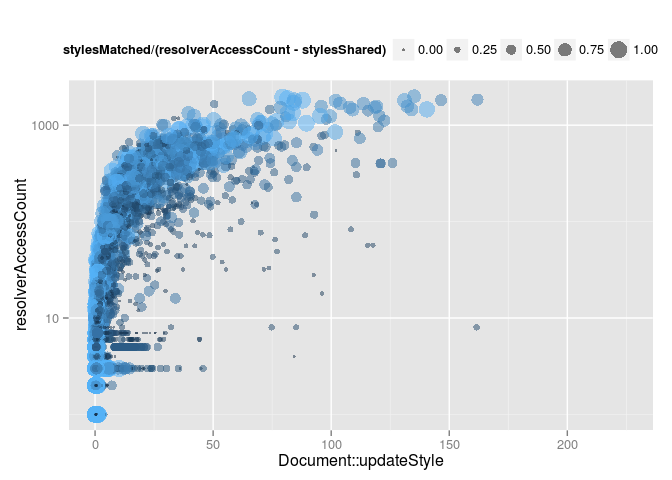
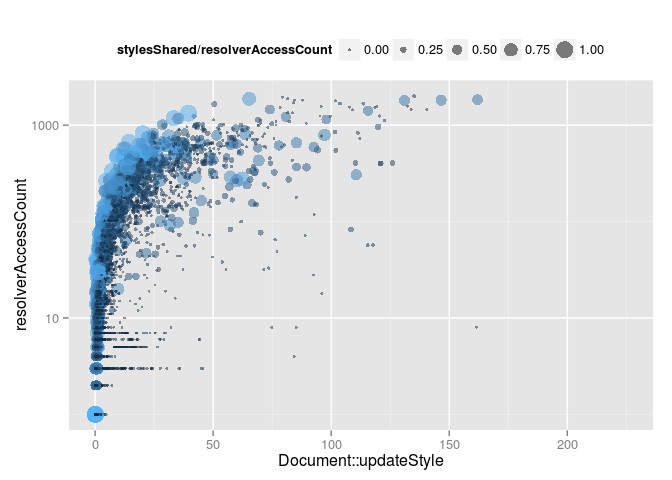
More update style stats

diff --git a/style.md b/style.md
@@ -3,16 +3,44 @@ Based on 24846 `Document::updateStyle` observations.
 Callers of Document::updateStyle
 --------------------------------
 
-There were 332 unique trace stacks. 46% of stacks and 43% of thread time involves `V8.Execute`.
+There were 332 unique trace stacks. 46.08% of stacks and 42.75% of thread time involves `V8.Execute`.
 
 ![](style_files/figure-markdown_github/unnamed-chunk-3-1.png)
 
 Style Sharing
 -------------
 
-![](style_files/figure-markdown_github/unnamed-chunk-4-1.png) ![](style_files/figure-markdown_github/unnamed-chunk-4-2.png) ![](style_files/figure-markdown_github/unnamed-chunk-4-3.png)
+Style sharing rate: 18.37%
+
+![](style_files/figure-markdown_github/unnamed-chunk-5-1.png) ![](style_files/figure-markdown_github/unnamed-chunk-5-2.png) ![](style_files/figure-markdown_github/unnamed-chunk-5-3.png)
 
 Matched properties cache
 ------------------------
 
-![](style_files/figure-markdown_github/unnamed-chunk-5-1.png) ![](style_files/figure-markdown_github/unnamed-chunk-5-2.png) ![](style_files/figure-markdown_github/unnamed-chunk-5-3.png)
+Non-inherited hit rate: 63.5%
+
+Inherited hit rate: 37.64%
+
+![](style_files/figure-markdown_github/unnamed-chunk-6-1.png) ![](style_files/figure-markdown_github/unnamed-chunk-6-2.png) ![](style_files/figure-markdown_github/unnamed-chunk-6-3.png)
+
+Rules matched / rejected
+------------------------
+
+Of the rules considered:
+
+-   6.9% matched
+-   69.13% were rejected by the bloom filter
+-   23.97% were rejected by evaluation
+
+![](style_files/figure-markdown_github/unnamed-chunk-8-1.png) ![](style_files/figure-markdown_github/unnamed-chunk-8-2.png) ![](style_files/figure-markdown_github/unnamed-chunk-8-3.png)
+
+Styles un/changed
+-----------------
+
+Warning: This section isn't entirely accurate yet.
+
+Based on 9910 `Document::updateStyle` observations.
+
+23.78% of styles produced were identical to the previous state.
+
+![](style_files/figure-markdown_github/unnamed-chunk-10-1.png)
